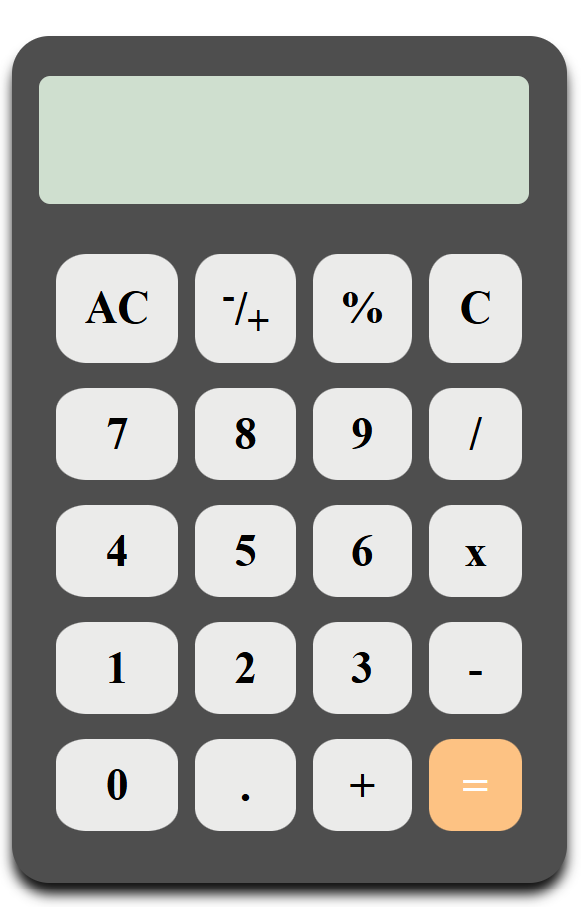
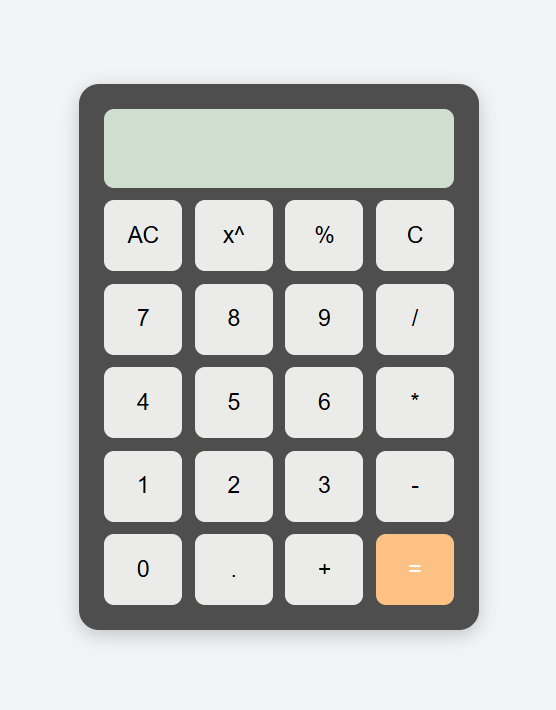
Update: made calculator responsive with media queries

diff --git a/style.css b/style.css
@@ -1,67 +1,92 @@
 * {
-  margin: 0;
-  padding: 0;
-  box-sizing: border-box;
-  font-family: "Poppins", sans-serif;
+    margin: 0;
+    padding: 0;
+    box-sizing: border-box;
+    font-family: "Poppins", sans-serif;
 }
 
 body {
-  display: flex;
-  justify-content: center;
-  align-items: center;
-  height: 100vh;
-  background: linear-gradient(135deg, #f3f4f6, #e5e7eb);
+    display: flex;
+    justify-content: center;
+    align-items: center;
+    height: 100vh;
+    background: #f3f4f6;
 }
 
 .calculator {
-  width: 320px;
-  background: #4E4E4E;
-  padding: 20px;
-  border-radius: 16px;
-  box-shadow: 0 8px 25px rgba(0, 0, 0, 0.3);
+    width: 320px;
+    background: #4E4E4E;
+    padding: 20px;
+    border-radius: 16px;
+    box-shadow: 0 4px 15px rgba(0, 0, 0, 0.2);
 }
 
 #display {
-  width: 100%;
-  margin-bottom: 15px;
-  padding: 20px;
-  background: #CFDFCF;
-  border: none;
-  border-radius: 8px;
-  font-size: 20px;
-  text-align: right;
-  color: #333;
-  outline: none;
+    width: 100%;
+    margin-bottom: 10px;
+    padding: 20px;
+    background-color: #CFDFCF;
+    border: none;
+    border-radius: 8px;
+    font-size: 20px;
+    text-align: right;
+    outline: none;
 }
 
 .buttons {
-  display: grid;
-  grid-template-columns: repeat(4, 1fr);
-  gap: 10px;
+    display: grid;
+    grid-template-columns: repeat(4, 1fr);
+    gap: 10px;
 }
 
 button {
-  padding: 18px;
-  font-size: 18px;
-  border: none;
-  border-radius: 8px;
-  background: #EBEBEA;
-  cursor: pointer;
-  transition: all 0.2s ease-in-out;
-  font-weight: 500;
+    padding: 18px;
+    font-size: 18px;
+    border: none;
+    border-radius: 8px;
+    background: #EBEBEA;
+    cursor: pointer;
+    transition: 0.2s;
 }
 
 button:hover {
-  background: #d1d5db;
-  transform: scale(1.05);
+    background: #d1d5db;
 }
 
 .equal {
-  background: #FDC283;
-  color: #fff;
-  grid-column: span 2;
+    background: #FDC283;
+    color: white;
+    grid-column: span 1;
 }
 
-.equal:hover {
-  background: #ffb95c;
+
+/* Responsive for Mobile */
+@media (max-width: 400px) {
+    .calculator {
+        width: 90%;
+        padding: 15px;
+    }
+
+    #display {
+        padding: 15px;
+        font-size: 18px;
+    }
+
+    button {
+        padding: 15px;
+        font-size: 16px;
+    }
+}
+
+/* Responsive for very small screens */
+@media (max-width: 300px) {
+    #display {
+        padding: 10px;
+        font-size: 16px;
+    }
+
+    button {
+        padding: 12px;
+        font-size: 14px;
+    }
 }
